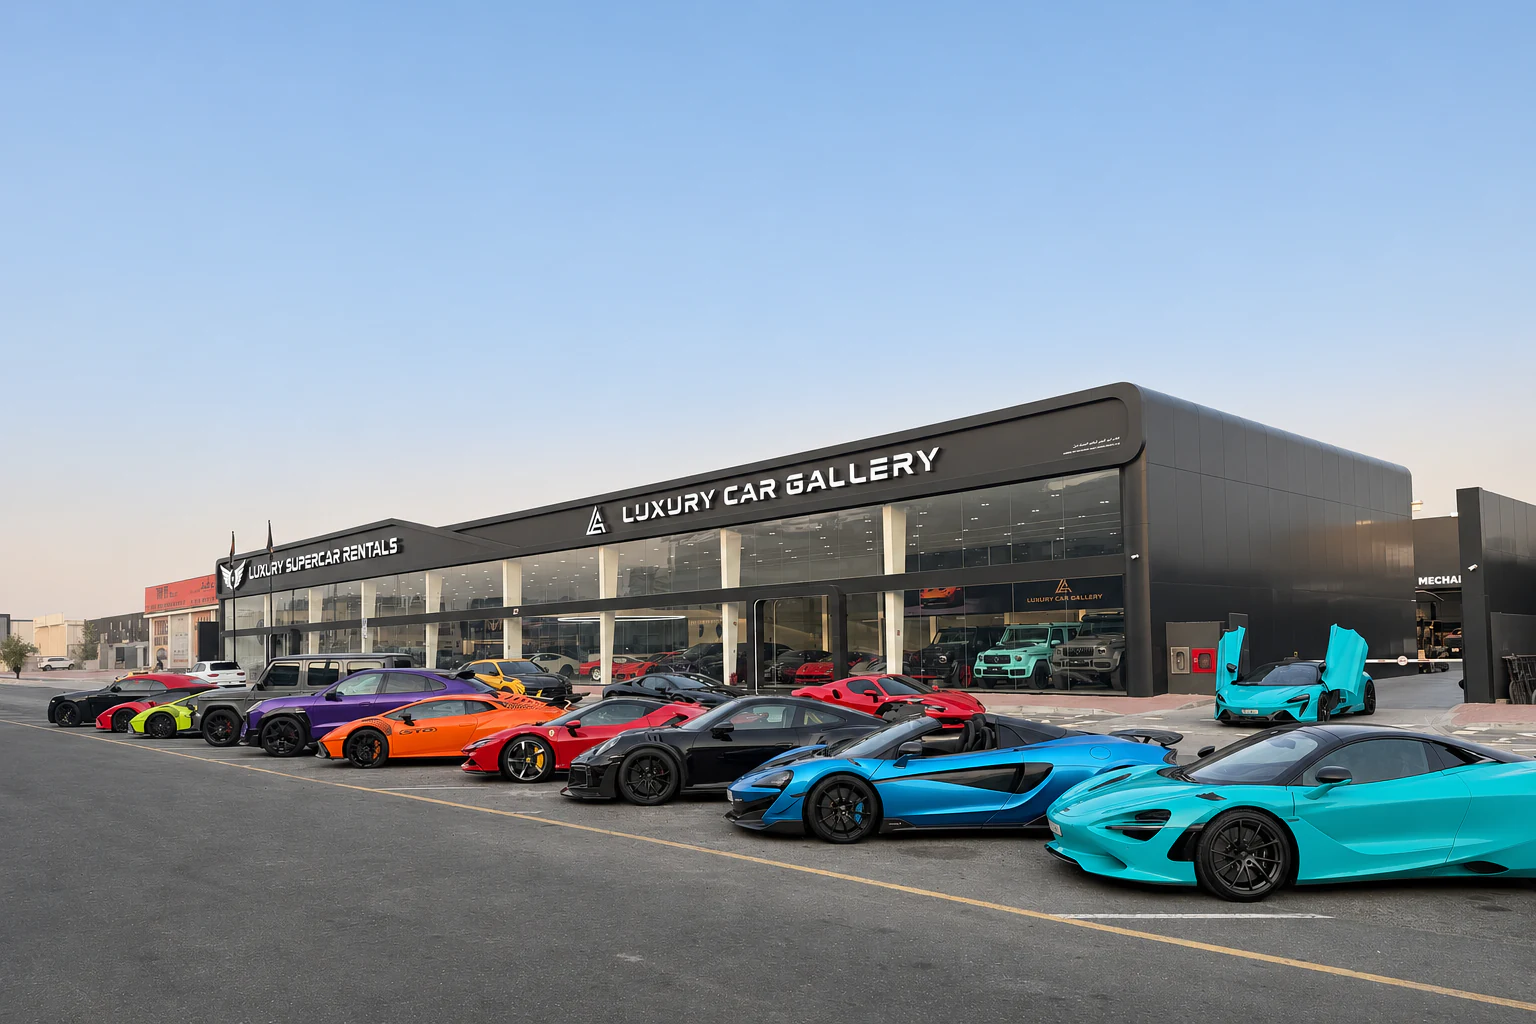
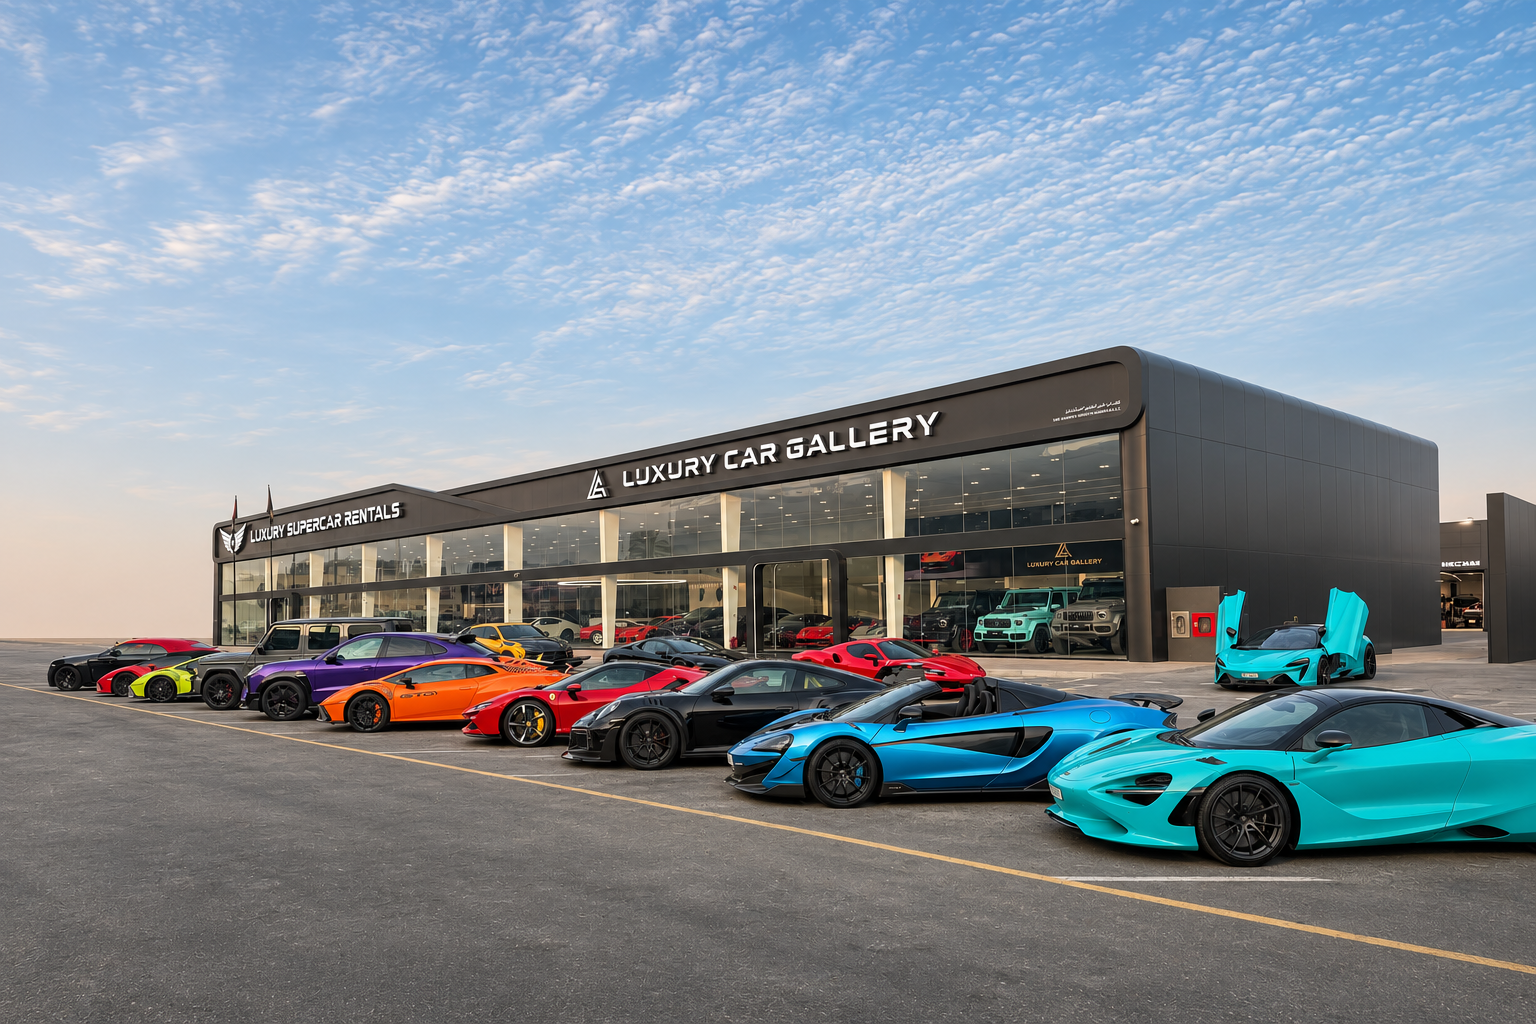
Keep the selected showroom photo and restore the right-hand workshop

diff --git a/app/about/page.tsx b/app/about/page.tsx
@@ -22,14 +22,14 @@ export const metadata: Metadata = {
 export default function About() {
   const { props: portrait } = getImageProps({
     src: showroomPortrait,
-    sizes: 'max(100vw, 65svh)', alt: '',
+    sizes: 'max(100vw, 65svh)', quality: 90, alt: '',
   });
   return <><div className="about-story">
   <div className="interior-hero">
     <picture>
       <source media="(max-width: 900px) and (max-aspect-ratio: 4/5)" srcSet={portrait.srcSet} sizes={portrait.sizes} />
       <Image src={showroomPhoto} alt="Supercars lined up outside The Luxury Group showroom in Al Quoz, Dubai"
-        fill loading="eager" fetchPriority="high" sizes="(max-width: 900px) max(100vw, 120svh), 100vw" />
+        fill quality={90} loading="eager" fetchPriority="high" sizes="(max-width: 900px) max(100vw, 120svh), 100vw" />
     </picture>
     <div className="about-hero-copy">
       <span className="about-hero-caption">One home. A world of automotive possibility.</span>
